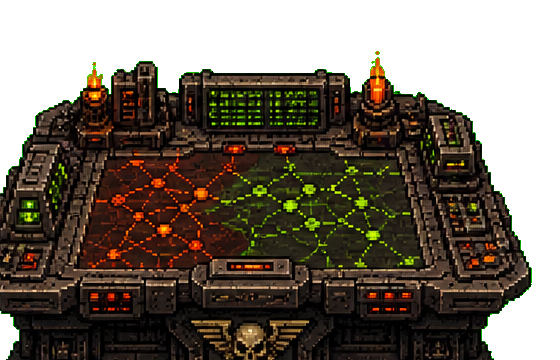
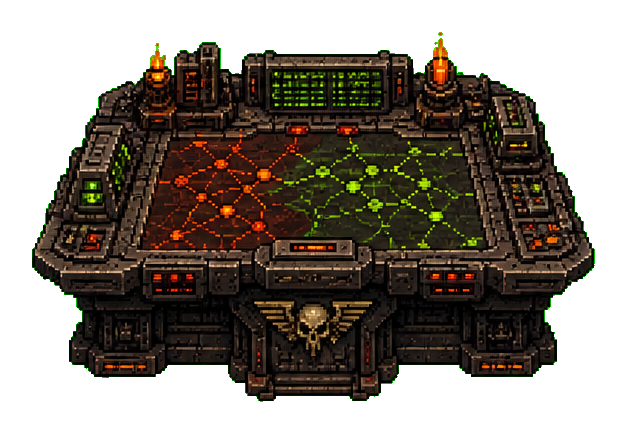
Fix #288 Warline portal prop clipping (#459)
## Summary

- Recropped `command-table.webp`, `green-lift.webp`, and `red-pit.webp`
from the committed Warline `portal-deck-atlas.webp` so each prop has
transparent padding instead of opaque pixels touching the canvas edge.
- Added a reusable RGBA alpha-margin helper, an issue-scoped
deterministic recrop/check script, focused unit coverage, provenance
notes, and refreshed `assets.index.json`.

## Issue

Closes #288

## Lore Docs Consulted

- `apps/lore/content/CANON.md`
- `apps/lore/content/00-Index.md`
- `apps/lore/content/README.md`
- `apps/lore/content/DESIGN.md`
- `apps/lore/content/Universe/`
- `apps/lore/content/Games/Warline.md`

## Asset Provenance

No new raster art was generated. This is a deterministic recrop of
existing committed Warline runtime art from
`packages/assets/games/warline/props/portal-deck/portal-deck-atlas.webp`,
encoded with `cwebp -lossless -exact` through
`packages/assets/scripts/fix-warline-portal-prop-margins.mjs`.

Final margin check:

- `command-table.webp`: `627x434`, margins `{ left: 32, top: 32, right:
32, bottom: 32 }`, border pixels `0`
- `green-lift.webp`: `337x500`, margins `{ left: 32, top: 32, right: 32,
bottom: 32 }`, border pixels `0`
- `red-pit.webp`: `478x469`, margins `{ left: 32, top: 32, right: 32,
bottom: 32 }`, border pixels `0`

## Verification

Passed:

- `bun install --frozen-lockfile`
- `git diff --check`
- `node packages/assets/scripts/fix-warline-portal-prop-margins.mjs
--check`
[…]

diff --git a/packages/assets/tests/alpha-margin.test.ts b/packages/assets/tests/alpha-margin.test.ts
@@ -1,0 +1,60 @@
+import assert from "node:assert/strict";
+import { test } from "node:test";
+import {
+  alphaBounds,
+  alphaMargins,
+  copyRgbaCrop,
+  cropForBounds,
+  edgeAlphaCount,
+} from "../scripts/lib/alpha-margin.mjs";
+
+function rgba(width: number, height: number, opaquePixels: Array<[number, number]>): Buffer {
+  const data = Buffer.alloc(width * height * 4);
+  for (const [x, y] of opaquePixels) {
+    const offset = (y * width + x) * 4;
+    data[offset] = x;
+    data[offset + 1] = y;
+    data[offset + 2] = 255;
+    data[offset + 3] = 255;
+  }
+  return data;
+}
+
+test("alphaBounds and alphaMargins report the visible subject box", () => {
+  const data = rgba(6, 5, [
+    [2, 1],
+    [4, 1],
+    [3, 3],
+  ]);
+
+  const bounds = alphaBounds(data, 6, 5);
+  assert.deepEqual(bounds, { minX: 2, minY: 1, maxX: 4, maxY: 3, pixels: 3 });
+  assert.deepEqual(alphaMargins(bounds, 6, 5), { left: 2, top: 1, right: 1, bottom: 1 });
+});
+
+test("edgeAlphaCount catches opaque pixels touching the canvas border", () => {
+  const data = rgba(4, 4, [
+    [0, 0],
+    [3, 1],
+    [2, 2],
+    [1, 3],
+  ]);
+
+  assert.equal(edgeAlphaCount(data, 4, 4), 3);
+});
+
+test("cropForBounds pads and clamps to the source canvas", () => {
+  const crop = cropForBounds({ minX: 1, minY: 2, maxX: 5, maxY: 6 }, 8, 8, 3);
+
+  assert.deepEqual(crop, { x: 0, y: 0, width: 8, height: 8 });
+});
+
+test("copyRgbaCrop extracts the requested rows and columns", () => {
+  const data = rgba(5, 4, [
+    [1, 1],
+    [3, 2],
+  ]);
+  const cropped = copyRgbaCrop(data, 5, { x: 1, y: 1, width: 3, height: 2 });
+
+  assert.deepEqual(alphaBounds(cropped, 3, 2), { minX: 0, minY: 0, maxX: 2, maxY: 1, pixels: 2 });
+});

diff --git a/packages/assets/games/warline/CREDITS.md b/packages/assets/games/warline/CREDITS.md
@@ -13,6 +13,7 @@
 - Date: 2026-06-07
 - Source: generated with the built-in Codex `image_gen` tool, keyed from flat chroma backgrounds with `ffmpeg colorkey`, cropped where needed, encoded with `cwebp -lossless -exact`
 - Scope: Warline runtime lobby/front map
+- QA recrop: `command-table.webp`, `green-lift.webp`, and `red-pit.webp` were deterministically recropped on 2026-06-24 from `portal-deck-atlas.webp` with 32 px transparent padding via `packages/assets/scripts/fix-warline-portal-prop-margins.mjs` for deadrot.com#288.
 
 ## Lobby Music
 
